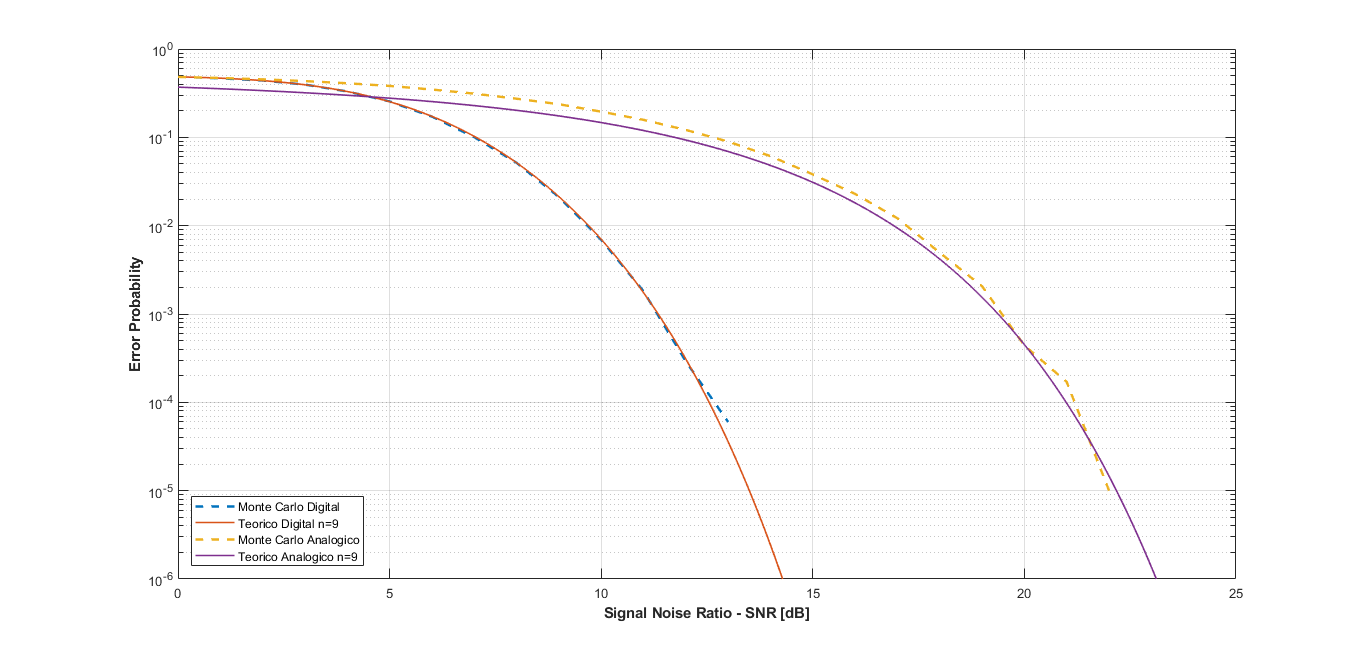
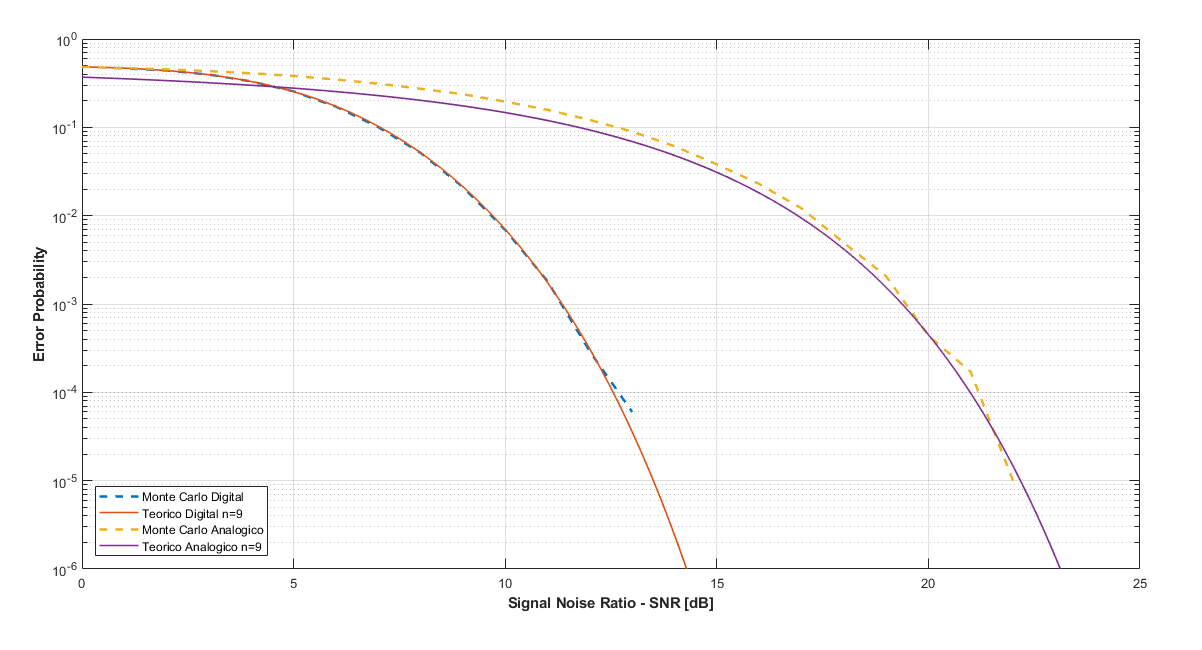
a

diff --git a/ejercicio_4.m b/ejercicio_4.m
@@ -7,7 +7,7 @@ h = 0.1;
 mu = 0;
 sigma=1;
 a = (10.^(SNR/10)*sigma/h.^2).^(1/2);
-n_realizaciones = 100000;
+n_realizaciones = 100;
 n_etapas = 9;
 
 figure(1)
